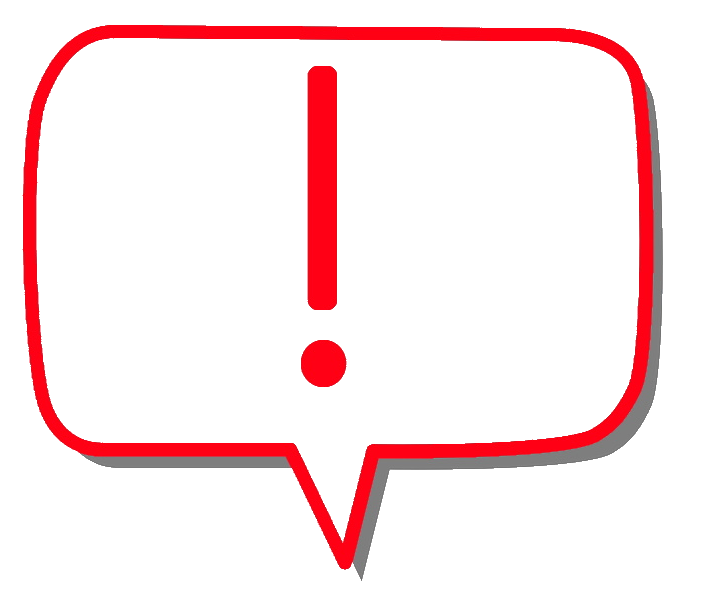
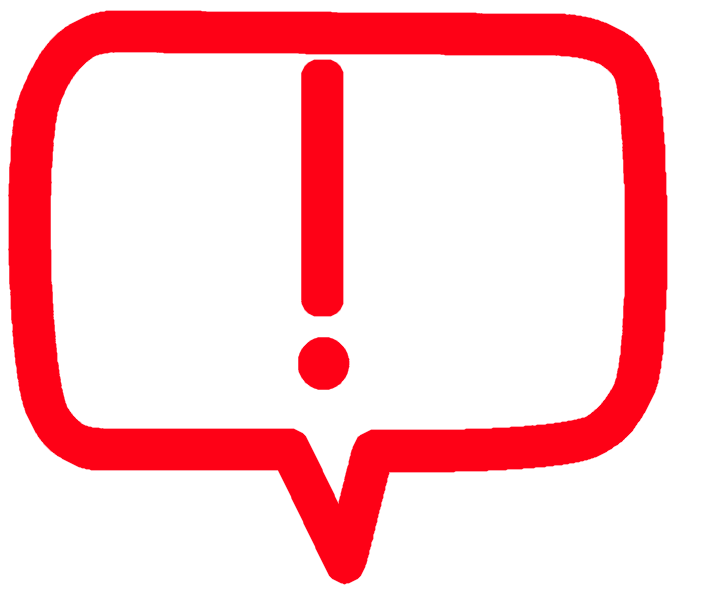
v0.19
Report button - red

Changed region(s): [[0.0, 0.0, 0.9573, 1.0], [0.4188, 0.5806, 0.5085, 0.6723]]

diff --git a/insta/index.html b/insta/index.html
@@ -424,8 +424,6 @@
             </div>
              <strong>Връзка</strong>
 
-              
-
            </div>
 
            <div class="option-button">
@@ -435,7 +433,7 @@
             <strong>Споделяне</strong>
           </div>
 
-          <div class="option-button">
+          <div class="option-button option-red">
             <div class="option-wrapper">
             <img src="images/report.png">
            </div>

diff --git a/insta/style.css b/insta/style.css
@@ -801,6 +801,12 @@ textarea{
     justify-content: center;
     gap: 5px;
 }
+.option-red .option-wrapper{
+    border-color: rgb(255, 0, 85);
+}
+.option-red{
+    color: rgb(255, 56, 56);
+}
 .option-wrapper{
     cursor: pointer;
     max-width: 55px;
